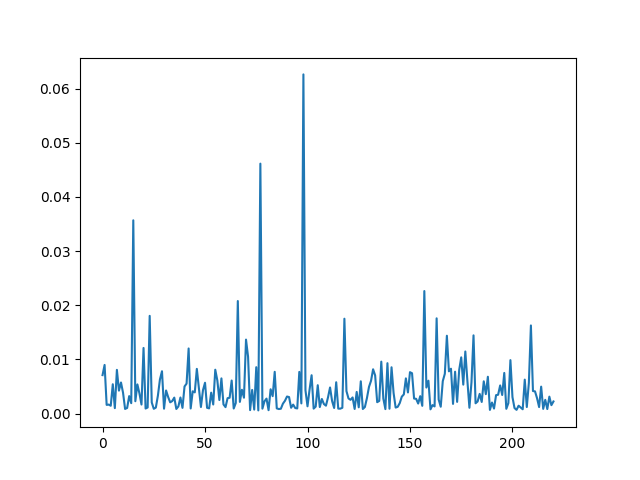
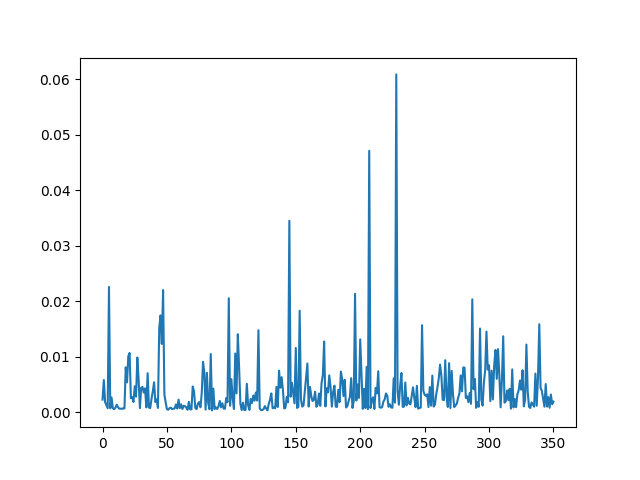
beautified the .sh files more

diff --git a/Week_4/checktheengine.py b/Week_4/checktheengine.py
@@ -8,6 +8,7 @@ from tqdm import tqdm
 import matplotlib.pyplot as plt
 import time
 import numpy as np
+import sys
 
 # import cProfile
 # import re
@@ -40,16 +41,19 @@ mateinwhat=int(input("Check mate in what:"))
 
 
 if mateinwhat==2:
-    size=221
+    size=351
     depth=3
 elif mateinwhat==3:
     size=489
     depth=5
+elif mateinwhat==4:
+    size=462
+    depth=7
 else:
     quit()
 
 
-isprofilingon=int(input("is profiling on:"))
+isprofilingon=int(sys.argv[1])
 boolcheck=[0,1]
 if isprofilingon not in boolcheck:
     quit()
@@ -104,19 +108,14 @@ for i,puzzle in enumerate(iterable=tqdm(puzzles)):
     
     data[i]=time.time() - start_
        
-    if bestmove!=movelist[1]:
-        if (eval!=10**5):
-            print(eval)
-            print(puzzle)
-            print(bestmove)
-            print(movelist[1])
-        else: 
-            correct+=1
     
-    else:
+    if (abs(eval)!=10**5):
+        print(eval)
+        print(puzzle)
+        print(bestmove)
+        print(movelist[1])
+    else: 
         correct+=1
-   
-    
     
 print("Total time:",time.time()-start)
 logging.info("Total: {} | Correct: {}".format(total,correct))

diff --git a/Week_4/ihatebajaj.py b/Week_4/ihatebajaj.py
@@ -137,7 +137,7 @@ def get_board_str(board):
 def StaticValue(board):
 
     value=0
-    piecediff=PieceDifference(board)
+    piecediff=PieceDifference(board)/100
     value=value+(sgn(piecediff))*(2**abs(piecediff))
     return value
 
